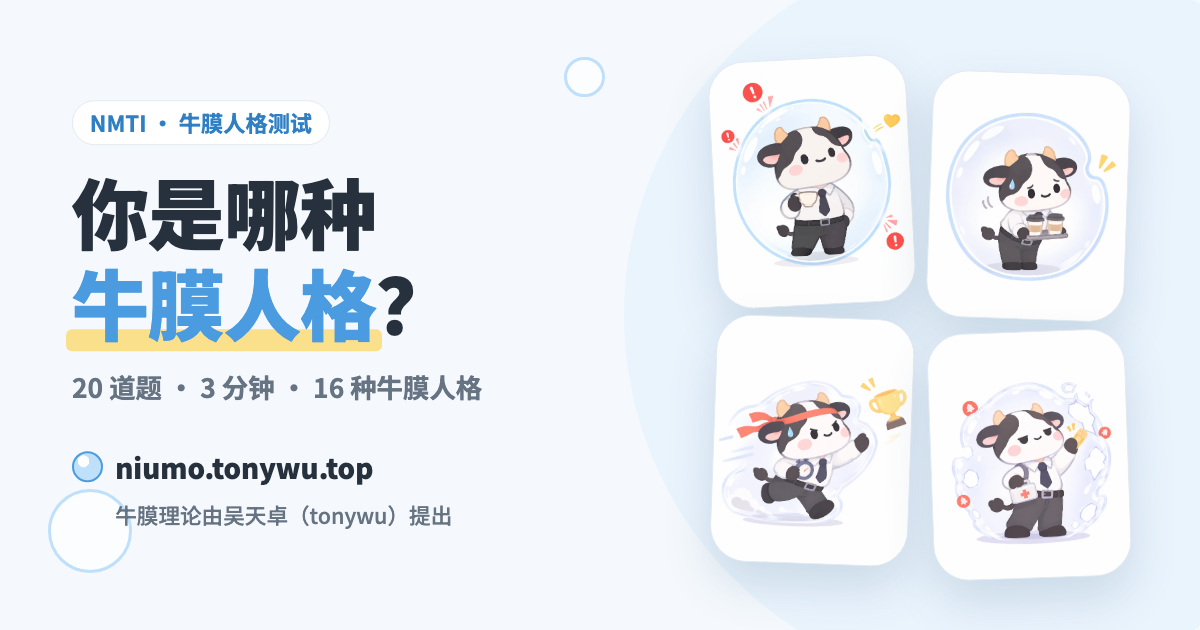
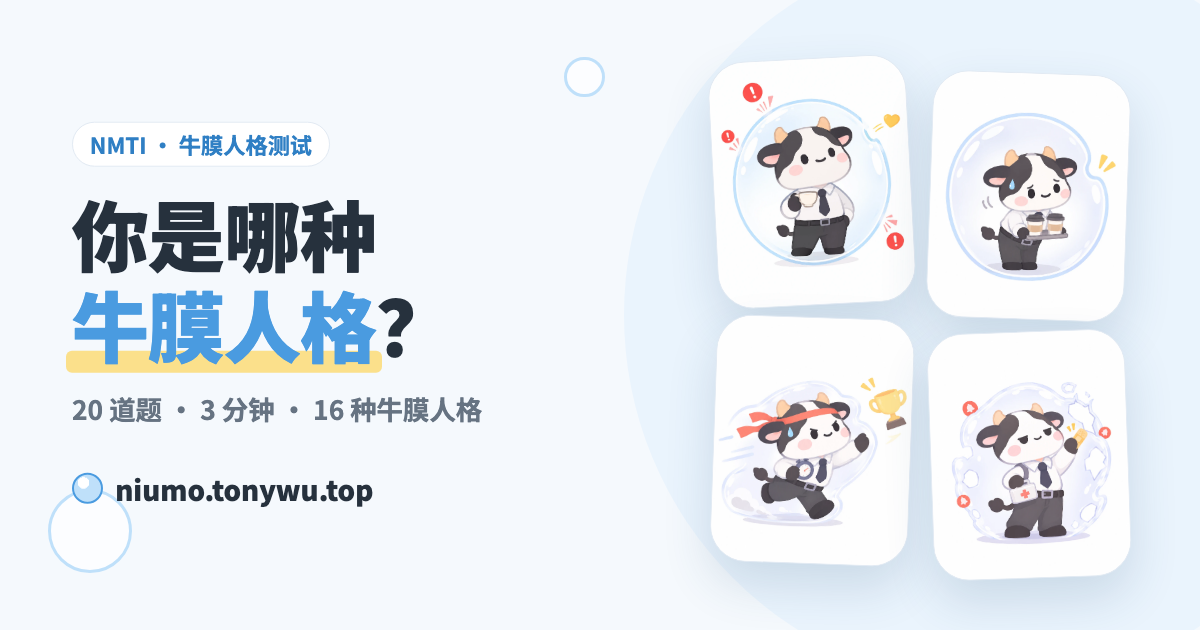
Share cards: drop the attribution line

Changed region(s): [[0.0308, 0.181, 0.4008, 0.6937], [0.0617, 0.6937, 0.37, 0.8444]]

diff --git a/og/card.html b/og/card.html
@@ -50,7 +50,7 @@
 
   <div class="card variant theory" id="theory">
     <div class="left">
-      <span class="pill">牛膜理论 · 吴天卓（tonywu）提出</span>
+      <span class="pill">牛膜理论</span>
       <h1>做人可以牛马，<br>但不能没有<span class="hl">牛膜</span>。</h1>
       <p class="sub">四层结构 · 三大定律 · 16 种牛膜人格</p>
       <p class="url"><i></i>niumo.tonywu.top</p>
@@ -65,7 +65,6 @@
       <h1>你是哪种<br><span class="hl">牛膜人格</span>？</h1>
       <p class="sub">20 道题 · 3 分钟 · 16 种牛膜人格</p>
       <p class="url"><i></i>niumo.tonywu.top</p>
-      <p class="by">牛膜理论由吴天卓（tonywu）提出</p>
     </div>
     <div class="grid">
       <div class="pic"><img src="../img/types/BFIH.webp" alt=""></div>

diff --git a/index.html b/index.html
@@ -22,7 +22,7 @@
 <meta property="og:site_name" content="牛膜理论">
 <meta property="og:image:width" content="1200">
 <meta property="og:image:height" content="630">
-<meta property="og:image:alt" content="牛膜理论：做人可以牛马，但不能没有牛膜。吴天卓（tonywu）提出">
+<meta property="og:image:alt" content="牛膜理论：做人可以牛马，但不能没有牛膜">
 <meta name="twitter:image" content="https://niumo.tonywu.top/og/theory.png">
 <meta name="twitter:card" content="summary_large_image">
 <meta name="twitter:title" content="牛膜理论：做人可以牛马，但不能没有牛膜">
